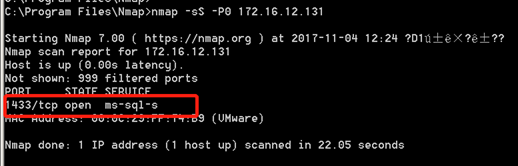
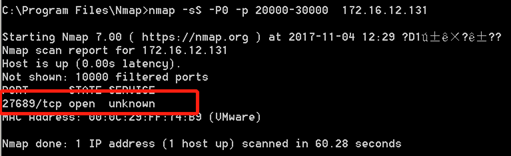
Site updated: 2019-11-18 20:35:57

Changed region(s): [[0.0, 0.0, 0.998, 1.0], [0.6751, 0.0256, 0.8513, 0.1026]]

diff --git a/2019/11/18/案例一提权/index.html b/2019/11/18/案例一提权/index.html
@@ -53,17 +53,19 @@
   };
 </script>
 
-  <meta name="description" content="仅知道靶机的ip是172.16.12.131，现在需要一步步去获取更多的信息。 一、获取靶机的登录权限：1、探测靶机开放端口： 发现1433端口开放。1433对应mssqlserver数据库服务。 2、继续探测非默认服务端口，发现27689端口对外开放 3、尝试用浏览器访问，发现是web服务端口，打开网页如下： 4、可以尝试暴力破解用户名和密码，或者尝试用后台扫描工具扫描网站。暴力破解费时费力，成">
+  <meta name="description" content="仅知道靶机的ip是172.16.12.131，现在需要一步步去获取更多的信息。 一、获取靶机的登录权限：1、探测靶机开放端口： 发现1433端口开放。1433对应mssqlserver数据库服务。 2、继续探测非默认服务端口，发现27689端口对外开放  3、尝试用浏览器访问，发现是web服务端口，打开网页如下：  4、可以尝试暴力破解用户名和密码，或者尝试用后台扫描工具扫描网站。暴力破解费时费力">
 <meta property="og:type" content="article">
 <meta property="og:title" content="案例一-提权">
 <meta property="og:url" content="http:&#x2F;&#x2F;yoursite.com&#x2F;2019&#x2F;11&#x2F;18&#x2F;%E6%A1%88%E4%BE%8B%E4%B8%80%E6%8F%90%E6%9D%83&#x2F;index.html">
 <meta property="og:site_name" content="ClearLoveの博客">
-<meta property="og:description" content="仅知道靶机的ip是172.16.12.131，现在需要一步步去获取更多的信息。 一、获取靶机的登录权限：1、探测靶机开放端口： 发现1433端口开放。1433对应mssqlserver数据库服务。 2、继续探测非默认服务端口，发现27689端口对外开放 3、尝试用浏览器访问，发现是web服务端口，打开网页如下： 4、可以尝试暴力破解用户名和密码，或者尝试用后台扫描工具扫描网站。暴力破解费时费力，成">
+<meta property="og:description" content="仅知道靶机的ip是172.16.12.131，现在需要一步步去获取更多的信息。 一、获取靶机的登录权限：1、探测靶机开放端口： 发现1433端口开放。1433对应mssqlserver数据库服务。 2、继续探测非默认服务端口，发现27689端口对外开放  3、尝试用浏览器访问，发现是web服务端口，打开网页如下：  4、可以尝试暴力破解用户名和密码，或者尝试用后台扫描工具扫描网站。暴力破解费时费力">
 <meta property="og:locale" content="zh-CN">
-<meta property="og:image" content="http:&#x2F;&#x2F;yoursite.com&#x2F;2019&#x2F;11&#x2F;18&#x2F;%E6%A1%88%E4%BE%8B%E4%B8%80%E6%8F%90%E6%9D%83&#x2F;%5Cimages%5Cpasted-4.png">
-<meta property="og:updated_time" content="2019-11-18T09:54:11.674Z">
+<meta property="og:image" content="http:&#x2F;&#x2F;yoursite.com&#x2F;images&#x2F;pasted-4.png">
+<meta property="og:image" content="http:&#x2F;&#x2F;yoursite.com&#x2F;images&#x2F;pasted-5.png">
+<meta property="og:image" content="http:&#x2F;&#x2F;yoursite.com&#x2F;images&#x2F;pasted-6.png">
+<meta property="og:updated_time" content="2019-11-18T12:34:24.106Z">
 <meta name="twitter:card" content="summary">
-<meta name="twitter:image" content="http:&#x2F;&#x2F;yoursite.com&#x2F;2019&#x2F;11&#x2F;18&#x2F;%E6%A1%88%E4%BE%8B%E4%B8%80%E6%8F%90%E6%9D%83&#x2F;%5Cimages%5Cpasted-4.png">
+<meta name="twitter:image" content="http:&#x2F;&#x2F;yoursite.com&#x2F;images&#x2F;pasted-4.png">
 
 <link rel="canonical" href="http://yoursite.com/2019/11/18/%E6%A1%88%E4%BE%8B%E4%B8%80%E6%8F%90%E6%9D%83/">
 
@@ -213,7 +215,7 @@
               <span class="post-meta-item-text">发表于</span>
               
 
-              <time title="创建时间：2019-11-18 15:38:33 / 修改时间：17:54:11" itemprop="dateCreated datePublished" datetime="2019-11-18T15:38:33+08:00">2019-11-18</time>
+              <time title="创建时间：2019-11-18 15:38:33 / 修改时间：20:34:24" itemprop="dateCreated datePublished" datetime="2019-11-18T15:38:33+08:00">2019-11-18</time>
             </span>
 
           
@@ -229,9 +231,11 @@
       
         <p>仅知道靶机的ip是172.16.12.131，现在需要一步步去获取更多的信息。</p>
 <p>一、获取靶机的登录权限：<br>1、探测靶机开放端口：</p>
-<p><img src="%5Cimages%5Cpasted-4.png" alt="upload successful"><br>发现1433端口开放。1433对应mssqlserver数据库服务。</p>
+<p><img src="/images/pasted-4.png" alt="upload successful"><br>发现1433端口开放。1433对应mssqlserver数据库服务。</p>
 <p>2、继续探测非默认服务端口，发现27689端口对外开放</p>
+<p><img src="/images/pasted-5.png" alt="upload successful"></p>
 <p>3、尝试用浏览器访问，发现是web服务端口，打开网页如下：</p>
+<p><img src="/images/pasted-6.png" alt="upload successful"></p>
 <p>4、可以尝试暴力破解用户名和密码，或者尝试用后台扫描工具扫描网站。暴力破解费时费力，成功率不高，所以优先扫描网站后台：</p>
 <p>检查发现的后台文件，发现robots.txt文件，双击打开<a href="http://172.16.12.131:27689/robots.txt" target="_blank" rel="noopener">http://172.16.12.131:27689/robots.txt</a><br>内容如下：</p>
 <p>5、从robots.txt发现2个aspx页面，访问其中file_down.aspx页面如下：</p>

diff --git a/index.html b/index.html
@@ -211,7 +211,7 @@
               <span class="post-meta-item-text">发表于</span>
               
 
-              <time title="创建时间：2019-11-18 17:57:00 / 修改时间：18:34:16" itemprop="dateCreated datePublished" datetime="2019-11-18T17:57:00+08:00">2019-11-18</time>
+              <time title="创建时间：2019-11-18 17:57:00 / 修改时间：20:32:07" itemprop="dateCreated datePublished" datetime="2019-11-18T17:57:00+08:00">2019-11-18</time>
             </span>
 
           
@@ -225,8 +225,7 @@
     <div class="post-body" itemprop="articleBody">
 
       
-          <p><img src="/images/pasted-6.png" alt="upload successful"></p>
-
+          
       
     </div>
 
@@ -270,7 +269,7 @@
               <span class="post-meta-item-text">发表于</span>
               
 
-              <time title="创建时间：2019-11-18 15:38:33 / 修改时间：17:54:11" itemprop="dateCreated datePublished" datetime="2019-11-18T15:38:33+08:00">2019-11-18</time>
+              <time title="创建时间：2019-11-18 15:38:33 / 修改时间：20:34:24" itemprop="dateCreated datePublished" datetime="2019-11-18T15:38:33+08:00">2019-11-18</time>
             </span>
 
           
@@ -286,9 +285,11 @@
       
           <p>仅知道靶机的ip是172.16.12.131，现在需要一步步去获取更多的信息。</p>
 <p>一、获取靶机的登录权限：<br>1、探测靶机开放端口：</p>
-<p><img src="%5Cimages%5Cpasted-4.png" alt="upload successful"><br>发现1433端口开放。1433对应mssqlserver数据库服务。</p>
+<p><img src="/images/pasted-4.png" alt="upload successful"><br>发现1433端口开放。1433对应mssqlserver数据库服务。</p>
 <p>2、继续探测非默认服务端口，发现27689端口对外开放</p>
+<p><img src="/images/pasted-5.png" alt="upload successful"></p>
 <p>3、尝试用浏览器访问，发现是web服务端口，打开网页如下：</p>
+<p><img src="/images/pasted-6.png" alt="upload successful"></p>
 <p>4、可以尝试暴力破解用户名和密码，或者尝试用后台扫描工具扫描网站。暴力破解费时费力，成功率不高，所以优先扫描网站后台：</p>
 <p>检查发现的后台文件，发现robots.txt文件，双击打开<a href="http://172.16.12.131:27689/robots.txt" target="_blank" rel="noopener">http://172.16.12.131:27689/robots.txt</a><br>内容如下：</p>
 <p>5、从robots.txt发现2个aspx页面，访问其中file_down.aspx页面如下：</p>

diff --git a/2019/11/18/Untitled/index.html b/2019/11/18/Untitled/index.html
@@ -53,15 +53,15 @@
   };
 </script>
 
-  <meta property="og:type" content="article">
+  <meta name="description" content="胡歌">
+<meta property="og:type" content="article">
 <meta property="og:title" content="Untitled">
 <meta property="og:url" content="http:&#x2F;&#x2F;yoursite.com&#x2F;2019&#x2F;11&#x2F;18&#x2F;Untitled&#x2F;index.html">
 <meta property="og:site_name" content="ClearLoveの博客">
+<meta property="og:description" content="胡歌">
 <meta property="og:locale" content="zh-CN">
-<meta property="og:image" content="http:&#x2F;&#x2F;yoursite.com&#x2F;images&#x2F;pasted-6.png">
-<meta property="og:updated_time" content="2019-11-18T10:34:16.890Z">
+<meta property="og:updated_time" content="2019-11-18T12:32:07.044Z">
 <meta name="twitter:card" content="summary">
-<meta name="twitter:image" content="http:&#x2F;&#x2F;yoursite.com&#x2F;images&#x2F;pasted-6.png">
 
 <link rel="canonical" href="http://yoursite.com/2019/11/18/Untitled/">
 
@@ -211,7 +211,7 @@
               <span class="post-meta-item-text">发表于</span>
               
 
-              <time title="创建时间：2019-11-18 17:57:00 / 修改时间：18:34:16" itemprop="dateCreated datePublished" datetime="2019-11-18T17:57:00+08:00">2019-11-18</time>
+              <time title="创建时间：2019-11-18 17:57:00 / 修改时间：20:32:07" itemprop="dateCreated datePublished" datetime="2019-11-18T17:57:00+08:00">2019-11-18</time>
             </span>
 
           
@@ -225,8 +225,7 @@
     <div class="post-body" itemprop="articleBody">
 
       
-        <p><img src="/images/pasted-6.png" alt="upload successful"></p>
-
+        
     </div>
 
     
